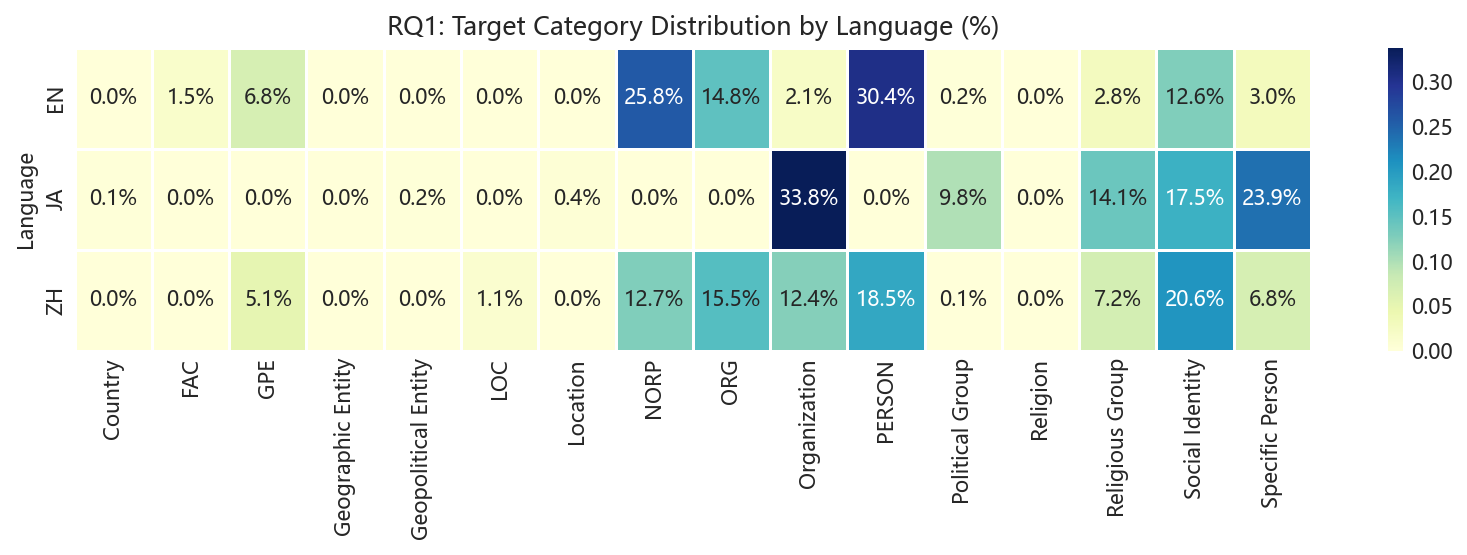
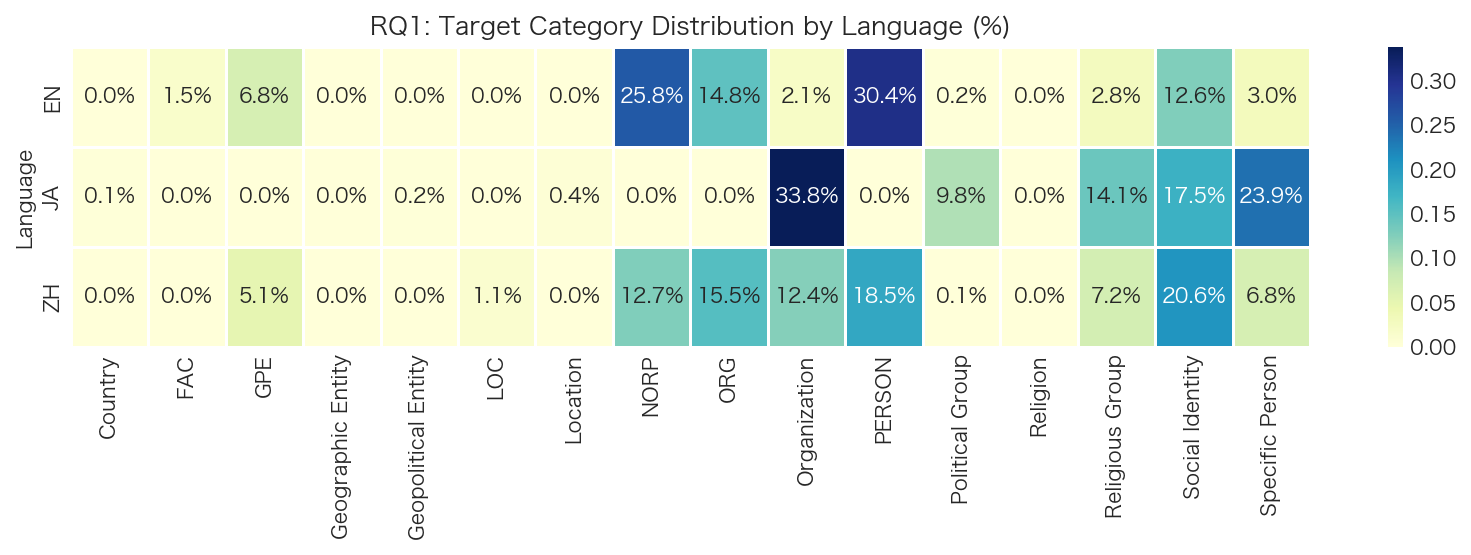
finishied RQ1

diff --git a/thesis_draft/chapters/rq1.tex b/thesis_draft/chapters/rq1.tex
@@ -46,25 +46,38 @@ All three communities target Jesus/耶稣/イエス・キリスト and some form
 \section{Target Category Distribution by Topic}
 \label{sec:rq1-by-topic}
 
-To understand how the \textit{type} of target shifts across different discursive contexts, Figure~\ref{fig:rq1-stacked} presents the distribution of target macro-categories --- Individual, Group/Ide\allowbreak ntity, and Institution --- for each of the 47 topics, stacked by entity count. Topics are listed in descending order of size.
+To understand how the \textit{type} of target shifts across different discursive contexts, Figure~\ref{fig:rq1-stacked} presents, for each of the 47 topics, the distribution of the five LLM-assigned fine-grained target categories --- \textit{Religious Group}, \textit{Organization}, \textit{Specific Person}, \textit{Social Identity}, and \textit{Political Group} --- stacked by entity count and ordered by topic size (descending). Figure~\ref{fig:rq1-topic-targets} complements this overview by displaying, for the 24 largest topics, the actual top-$N$ entities per topic with bilingual labels, making the category-level patterns concrete.
 
 \begin{figure}[htbp]
     \centering
     \includegraphics[width=0.85\textwidth]{RQ1/rq1_topic_category_stacked.png}
-    \caption{Target category distribution by topic. Each bar represents one of the 47 topics, stacked by entity-count contribution from five broad category types: Religious Group, Organization, Specific Person, Social Identity, and Political Group. Topics are ordered by size (descending).}
+    \caption{Target category distribution by topic. Each bar represents one of the 47 topics, stacked by entity-count contribution from five LLM-assigned category types: \textit{Religious Group}, \textit{Organization}, \textit{Specific Person}, \textit{Social Identity}, and \textit{Political Group}. Topics are ordered by size (descending).}
     \label{fig:rq1-stacked}
 \end{figure}
 
-Across all 47 topics, Group/Identity targets (comprising spaCy's \texttt{NORP} label together with the LLM-assigned \textit{Social Identity}, \textit{Religious Group}, and \textit{Political Group} categories) constitute the single most common macro-category, dominating 29 topics and accounting for the plurality of entity mentions in topics representing 1{,}662 documents. Individual targets (combining \texttt{PERSON} and \textit{Specific Person}) lead in 12 topics (1{,}019 docs), and Institution targets (\texttt{ORG} and \textit{Organization}) lead in the remaining 6 topics (754 docs). The predominance of group-level targets suggests that online hate speech in this corpus is oriented primarily toward identities and collectivities rather than specific persons.
+\begin{figure}[htbp]
+    \centering
+    \includegraphics[width=\textwidth]{RQ1/rq1_topic_top_targets_bilingual.png}
+    \caption{Top-$N$ hate-speech targets per topic for the 24 largest topics, with bilingual labels (original language + English translation). Bar colours encode entity category; topic identifiers and document counts are shown in each panel header.}
+    \label{fig:rq1-topic-targets}
+\end{figure}
 
-\textbf{Group/Identity-dominant topics.}
-Within the Group/Identity cluster, the degree of concentration varies. Topic~3 (LGBTQ+ and Catholic teaching, $n=149$) exemplifies maximal group-targeting: 70\% of all entity mentions are Group/Identity labels (LGBT, LGBTQ, priests as a role-category, 信徒 [\textit{believers}]), reflecting a discourse that is fundamentally about contested social identities rather than named actors. Topic~23 (Japanese-language critique of Christianity, $n=42$) reaches 94\% Group/Identity, targeting キリスト教 (\textit{Christianity}) and its practitioners as an undifferentiated collective. Topics~15, 20, 41, and 42 similarly concentrate hostility onto denominational or doctrinal collectives (Catholics, nuns, heretics, Calvinists) with minimal individual specificity. In contrast, Topics~2, 5, and 8 --- all centred on clerical abuse and the Church's response to it --- retain a more balanced three-way distribution because they mix role-based group labels (priests, bishops) with both specific individuals (Pope Francis) and institutional bodies (the Catholic Church).
+Across all 47 topics and 4{,}688 LLM-categorised entity mentions, \textit{Social Identity} is the most frequent category overall (1{,}479 mentions, 31.5\%), followed by \textit{Organization} (1{,}322, 28.2\%), \textit{Specific Person} (935, 19.9\%), \textit{Religious Group} (676, 14.4\%), and \textit{Political Group} (276, 5.9\%). At the topic level, \textit{Social Identity} is the dominant category in 23 of the 47 topics; \textit{Religious Group} leads in 10; \textit{Organization} and \textit{Specific Person} each lead in 7; and \textit{Political Group} does not lead any topic independently. The prevalence of \textit{Social Identity} across the majority of topics reflects a discourse that primarily frames its objects of hostility as role-based or membership-based collectives rather than named institutions or individuals.
 
-\textbf{Individual-dominant topics.}
-The twelve Individual-dominant topics share a common logic: a specific named actor or historically personalised figure serves as the focal point around which hostility coalesces. Topic~9 (Christological mockery, $n=103$) is the extreme case, with 75\% Individual, because 耶稣 (\textit{Jesus}) absorbs the overwhelming majority of entity mentions. Similarly, Topic~28 (the Burke-Francis rift, $n=35$) reaches 65\% Individual, naming Cardinal Burke (伯克 / バーク) and Pope Francis (教皇方济各 / フランシスコ教皇) as opposing protagonists in an intra-Church power struggle. Topic~1 (Trump and Christian nationalism, $n=312$) is the largest Individual-dominant topic: at 49\% Individual, Trump operates as a lightning rod that draws together Catholic, evangelical, and politically-inflected hostility across all three language communities.
+\textbf{Social Identity-dominant topics.}
+The 23 topics where \textit{Social Identity} achieves the plurality vary considerably in the intensity of that dominance. Topic~26 ($n=38$) is the most concentrated, with 83\% of entity mentions falling into \textit{Social Identity}, reflecting a discourse organised entirely around membership-role categories (修道院 [\textit{monastery/convent}]) with virtually no named actors or institutions. Topic~20 ($n=47$, convent humour and anti-clerical satire) reaches 76\% \textit{Social Identity}, targeting role labels such as 修道院 and clerical collectives. Topic~3 ($n=149$, LGBTQ+ and Catholic teaching) sits at 57\% \textit{Social Identity}, with targets like 同性恋 (\textit{homosexuals}), LGBT, and 信徒 (\textit{believers}) framing a conflict over contested social identities. Topics~2 ($n=208$, gender and women in the Church) and~6 ($n=122$, clerical abuse) are Social Identity-dominant at 53\% and 46\% respectively, but each retains a notable \textit{Organization} share, reflecting discourses in which both the institutional hierarchy and the membership categories of its victims are simultaneously under scrutiny.
 
-\textbf{Institution-dominant topics.}
-Institution dominance is concentrated in six topics. Topic~0 (Unification Church, $n=499$) is the clearest example: despite being the largest topic in the corpus, 48\% of its entity mentions fall on organisational entities --- 統一教会 as an institution, 自民党 as a party, 創価学会 (\textit{Sōka Gakkai}) as a comparator --- while individual figures and group identities play secondary roles. Topic~30 (comparison of Christian denominations, $n=30$) reaches 71\% Institution, because its targets are denominational structures themselves: 基督教 (\textit{Protestant Christianity}), 天主教 (\textit{Catholicism}), 东正教 (\textit{Eastern Orthodoxy}). Topic~34 similarly centres on the institutional landscape of Chinese Catholicism (天主教会, 教会). These institution-dominant topics share an analytical rather than emotionally charged register: the primary object of attention is an organisational system, its failures, or its internal divisions, rather than the individuals who populate it.
+\textbf{Specific Person-dominant topics.}
+Seven topics are anchored by named or historically personalised individuals. Topic~9 ($n=103$, Christological mockery) is the most concentrated: 64\% of entity mentions are \textit{Specific Person}, because 耶稣 / イエス・キリスト (\textit{Jesus}) absorbs the great majority of targeting. Topic~28 ($n=35$, the Burke--Francis intra-Church rift) reaches 57\% \textit{Specific Person}, naming Cardinal Burke (伯克 / バーク) and Pope Francis (教皇方济各 / フランシスコ教皇) as opposing protagonists. Topic~1 ($n=312$, Trump and Christian nationalism) is the largest \textit{Specific Person}-dominant topic at 34\%, with Trump as the focal target drawing together Catholic, evangelical, and politically-inflected hostility across all three language communities alongside substantial \textit{Social Identity} (28\%) and \textit{Religious Group} (18\%) co-mentions. Topic~44 ($n=21$, Pope Francis and cardinals) concentrates 42\% of its entity mentions on named clerical figures: 教皇, 方济各, 红衣主教 (\textit{cardinals}).
+
+\textbf{Organization-dominant topics.}
+Seven topics are led by \textit{Organization}. Topic~0 ($n=499$, Unification Church) is by far the largest: 48\% of its 1{,}238 entity mentions are \textit{Organization} --- 統一教会 (\textit{Unification Church}), 自民党 (\textit{LDP}), 創価学会 (\textit{S\={o}ka Gakkai}) --- while \textit{Specific Person} (24\%, driven by 安倍晋三 [\textit{Shinzo Abe}]) and \textit{Political Group} (13\%) fill secondary roles, producing a targeting structure that simultaneously indicts a religious institution, its political patron, and the party machine that enabled both. Topic~13 ($n=75$, religious education in public schools) and Topic~21 ($n=45$, denominational comparisons) reach 50\% and 47\% \textit{Organization} respectively, framing their discourse around institutional structures and their social functions. Topic~30 ($n=30$, Christian denominations) is the most concentrated Organization-dominant topic among the smaller topics at 53\%, targeting denominational structures themselves: 新教 (\textit{Protestantism}), 天主教 (\textit{Catholicism}), 东正教 (\textit{Eastern Orthodoxy}).
+
+\textbf{Religious Group-dominant topics.}
+Ten topics are led by \textit{Religious Group}. Topic~23 ($n=42$, Japanese-language critique of Christianity) is the most concentrated at 87\%, targeting キリスト教 (\textit{Christianity}) and キリスト教徒 (\textit{Christians}) as an undifferentiated religious collective. Topic~41 ($n=22$, criticism of Catholicism as a trap) reaches 67\% \textit{Religious Group} (カトリック, \textit{Catholics}), and Topic~15 ($n=65$, Catholic identity conflicts) reaches 60\%. Topics~11 ($n=81$, Islam and terrorism framing, 56\% \textit{Religious Group}) and~17 ($n=60$, end-times discourse, 49\%) concentrate on religious community labels --- イスラム (\textit{Islam}), テロ (\textit{terrorist}), 基督徒 (\textit{Christians}) --- without singling out individual actors or specific institutions. These topics share a register of \textit{collective indictment}: hostility is directed at a faith tradition or its adherents as a category.
+
+\textbf{Cross-topic patterns.}
+Several structural regularities emerge when the stacked profiles in Figure~\ref{fig:rq1-stacked} are read alongside the entity-level detail in Figure~\ref{fig:rq1-topic-targets}. First, \textit{Political Group} never achieves topic-level dominance on its own, but it functions as a consistent secondary presence in Topics~0, 1, 14, 16, 25, 31, and~36 --- all involving explicit intersections of religion with electoral or party politics --- reaching its highest absolute count (157 mentions) in Topic~0 due to the LDP's role in the Abe--Unification Church scandal. Second, topics in which \textit{Specific Person} is dominant tend to be more homogeneous in entity composition: a named individual anchors the discourse, causing other entity types to recede. Third, the smaller topics (below $n=30$) in Figure~\ref{fig:rq1-stacked} are almost uniformly thin in absolute entity count, making category-level proportions volatile; interpretive weight should rest on the larger topics where distributional patterns are more stable.
 
 %---------------------------------------------------------------
 \section{Target Category Distribution by Language}

diff --git a/unsupervised_classification/RQ1/viz_utils.py b/unsupervised_classification/RQ1/viz_utils.py
@@ -32,22 +32,22 @@ logger = logging.getLogger(__name__)
 # 按优先级排列的候选字体（覆盖 Mac / Windows / Linux）
 _FONT_CANDIDATES = [
     # ── macOS ──
-    "Hiragino Sans",          # 日文首选（macOS）
-    "Hiragino Sans GB",       # 中文（macOS）
     "PingFang SC",            # 简体中文（macOS）
     "PingFang TC",            # 繁体中文
+    "Hiragino Sans GB",       # 中文（macOS）
+    "Hiragino Sans",          # 日文首选（macOS）
     "Apple SD Gothic Neo",    # 韩文（顺带支持CJK）
     # ── Windows ──
     "Microsoft YaHei",        # 微软雅黑（Win 中文）
+    "SimHei",                 # 黑体
+    "SimSun",                 # 宋体
     "Yu Gothic",              # 游ゴシック（Win 日文）
     "Meiryo",                 # メイリオ（Win 日文）
     "MS Gothic",
-    "SimHei",                 # 黑体
-    "SimSun",                 # 宋体
     # ── Linux / 通用 ──
     "Noto Sans CJK SC",       # Noto 简中
-    "Noto Sans CJK JP",       # Noto 日文
     "Noto Sans CJK TC",       # Noto 繁中
+    "Noto Sans CJK JP",       # Noto 日文
     "Noto CJK",
     "Source Han Sans",        # 思源黑体
     "WenQuanYi Micro Hei",    # 文泉驿
@@ -55,7 +55,8 @@ _FONT_CANDIDATES = [
 ]
 
 _CJK_FONT_PATH: Optional[str] = None   # 注册后的字体文件路径
-_CJK_FONT_NAME: Optional[str] = None   # 注册后的字体名称
+_CJK_FONT_NAME: Optional[str] = None   # 主字体名称
+_CJK_FONT_FALLBACKS: list[str] = []   # 完整 fallback chain
 
 
 def _find_cjk_font_file() -> tuple[Optional[str], Optional[str]]:
@@ -146,7 +147,7 @@ def setup_cjk_font() -> Optional[str]:
         from viz_utils import setup_cjk_font
         cjk_font_name = setup_cjk_font()
     """
-    global _CJK_FONT_PATH, _CJK_FONT_NAME
+    global _CJK_FONT_PATH, _CJK_FONT_NAME, _CJK_FONT_FALLBACKS
 
     if _CJK_FONT_NAME:       # 已初始化，直接返回缓存
         return _CJK_FONT_NAME
@@ -209,11 +210,12 @@ def setup_cjk_font() -> Optional[str]:
 def get_cjk_font_prop():
     """
     返回可用于 ax.set_yticklabels(..., fontproperties=prop) 的 FontProperties 对象。
-    ★ 改進：使用 family 参数而不是 fname，这样能充分利用全局的 fallback chain
+    ★ 改进：使用 family 列表，让 matplotlib 尝试整个 fallback chain。
     """
     import matplotlib.font_manager as fm
+    if _CJK_FONT_FALLBACKS:
+        return fm.FontProperties(family=_CJK_FONT_FALLBACKS)
     if _CJK_FONT_NAME:
-        # 优先使用 family 参数，让 matplotlib 自动处理 fallback chain
         return fm.FontProperties(family=_CJK_FONT_NAME)
     if _CJK_FONT_PATH:
         return fm.FontProperties(fname=_CJK_FONT_PATH)

diff --git a/unsupervised_classification/RQ1/target_extraction_v3.py b/unsupervised_classification/RQ1/target_extraction_v3.py
@@ -999,7 +999,7 @@ def _draw_all(summary_df: pd.DataFrame, df_full: pd.DataFrame, output_dir: Path)
     # 预收集全部实体，批量翻译（一次 API 调用）
     all_entities_flat: list[str] = []
     topic_entries_cache: dict = {}
-    show = topic_ids[:24]
+    show = topic_ids
 
     for tid in show:
         rows = summary_df[summary_df["Topic_ID"] == tid]
@@ -1020,10 +1020,17 @@ def _draw_all(summary_df: pd.DataFrame, df_full: pd.DataFrame, output_dir: Path)
     logger.info(f"    翻译完成: {len(trans_map)} 个实体")
 
     # 绘图
-    ncols = 4
+    if len(show) <= 12:
+        ncols = 3
+    elif len(show) <= 20:
+        ncols = 4
+    elif len(show) <= 35:
+        ncols = 5
+    else:
+        ncols = 6
     nrows = (len(show) + ncols - 1) // ncols
-    fig2, axes = plt.subplots(nrows, ncols, figsize=(ncols * 5.0, nrows * 3.8))
-    flat = axes.flatten() if len(show) > 1 else [axes]
+    fig2, axes = plt.subplots(nrows, ncols, figsize=(ncols * 4.2, max(3.6, nrows * 2.6)), squeeze=False)
+    flat = axes.flatten()
 
     from viz_utils import bilingual_label
     for i, tid in enumerate(show):
